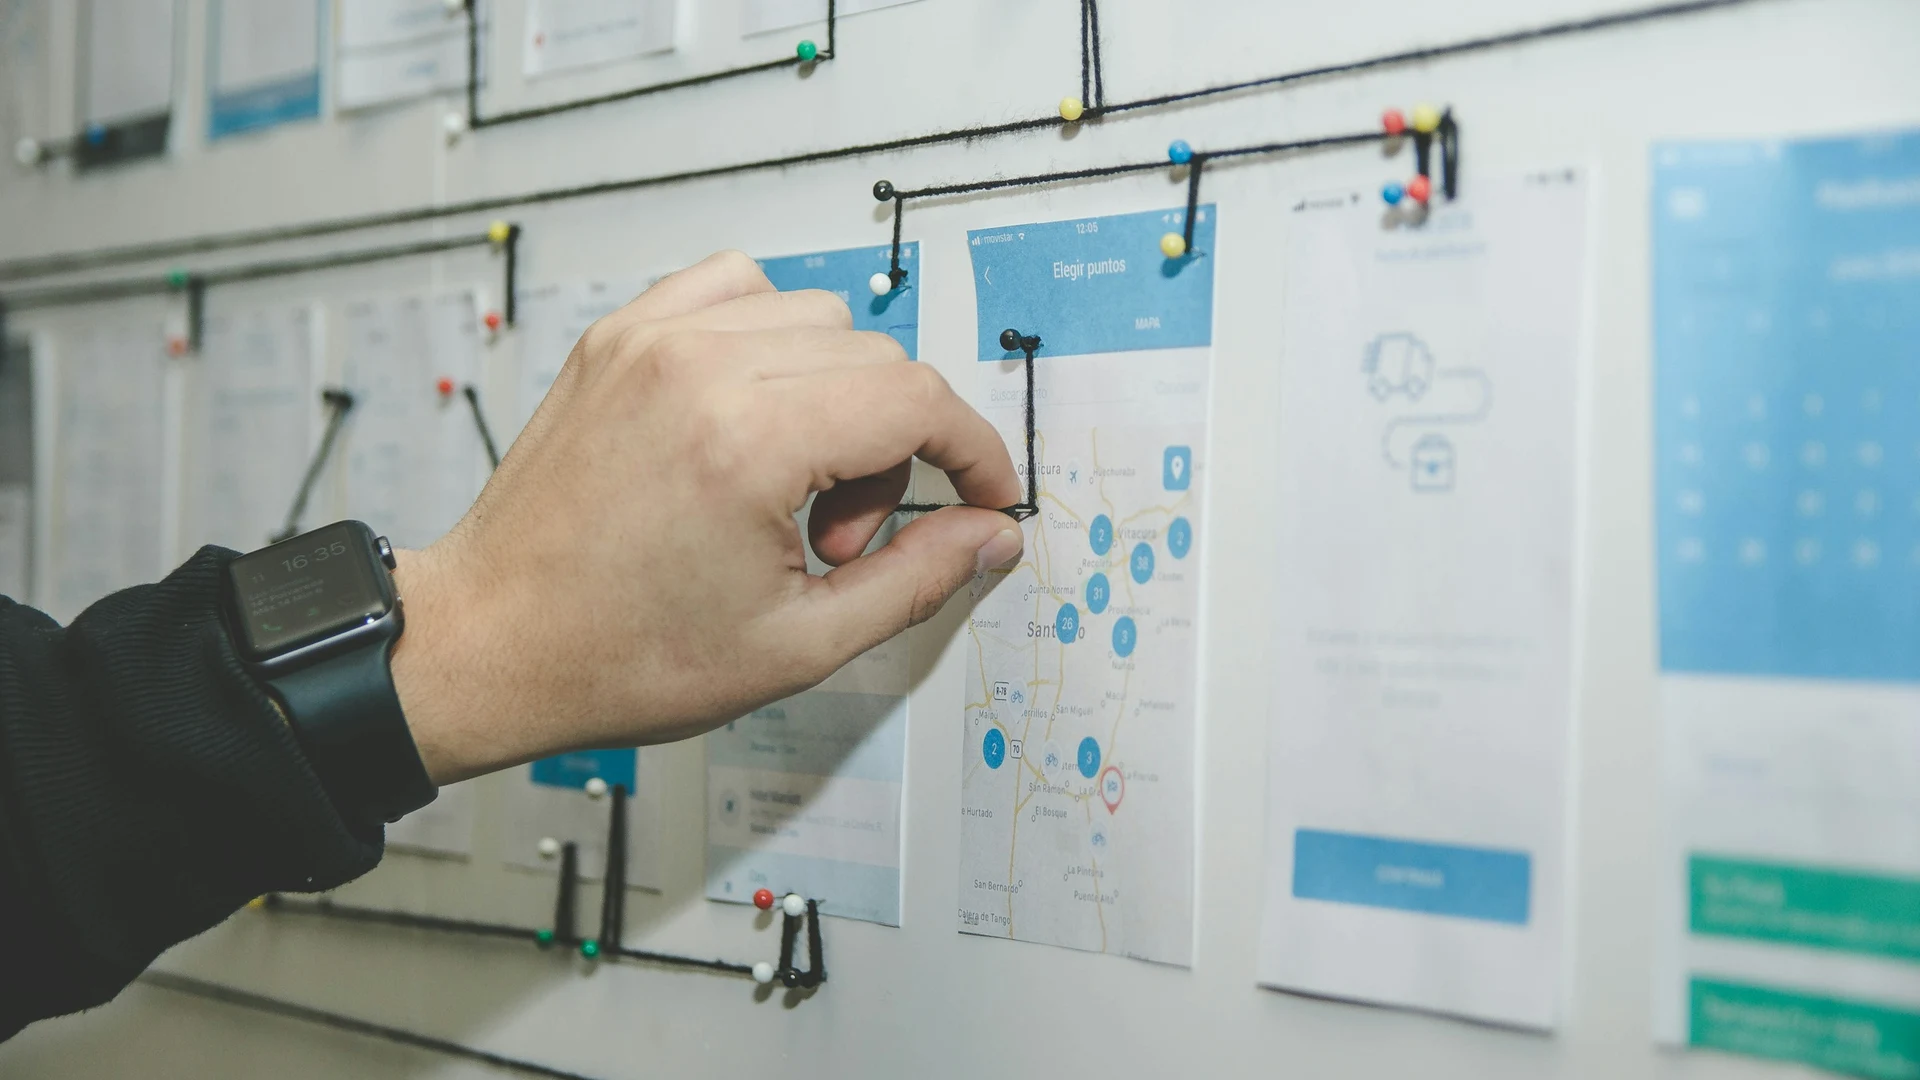
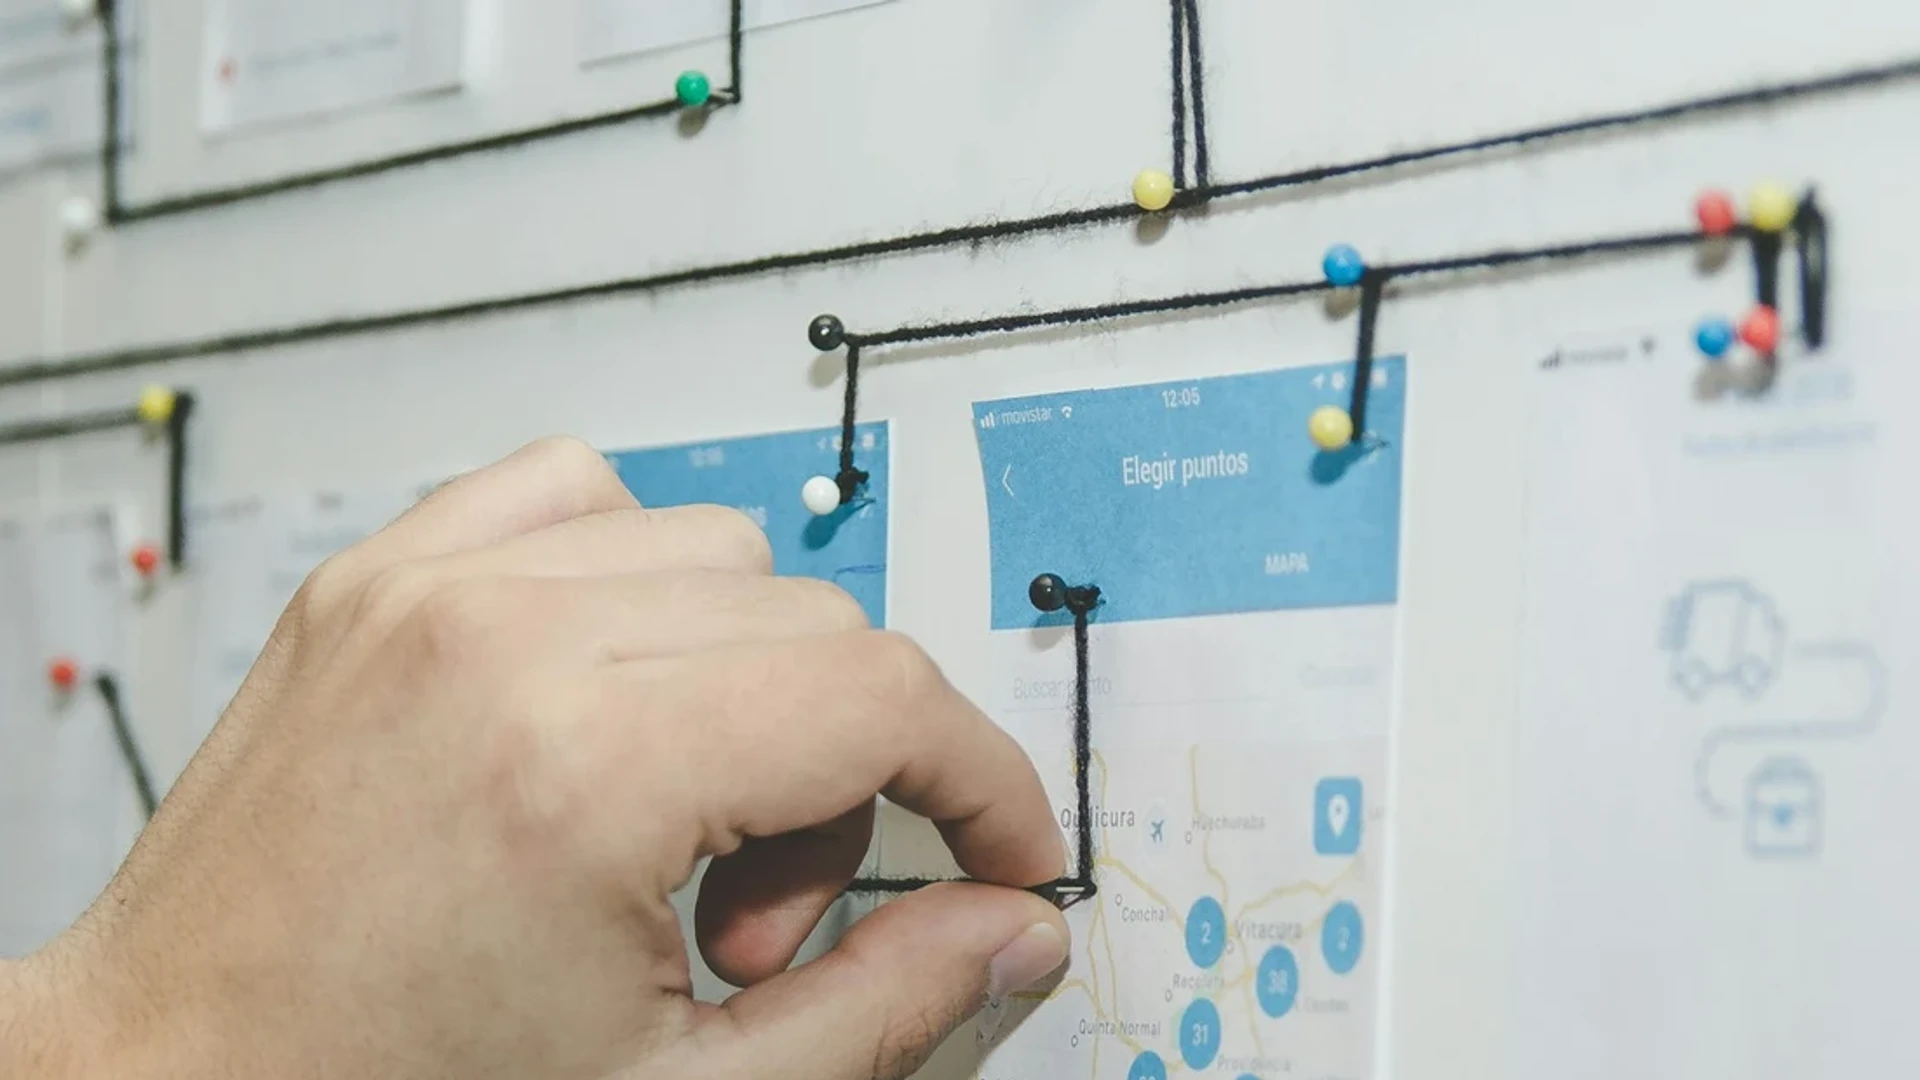
fix(process): align card heights uniformly on small screens and re-crop step 1 image composition

diff --git a/src/components/ProcessSection.tsx b/src/components/ProcessSection.tsx
@@ -421,7 +421,7 @@ export const ProcessSection: React.FC<ProcessSectionProps> = ({ stages }) => {
                   {/* Checkpoint Detail Card with enlarged, highly visible image */}
                   <div className="flex-1 min-w-0">
                     <div
-                      className={`group relative w-full flex flex-col justify-between rounded-2xl sm:rounded-3xl border transition-all duration-300 p-5 sm:p-7 lg:p-8 backdrop-blur-md min-h-[460px] sm:min-h-[520px] lg:min-h-[560px] ${
+                      className={`group relative w-full flex flex-col justify-between rounded-2xl sm:rounded-3xl border transition-all duration-300 p-4.5 sm:p-6 lg:p-7 backdrop-blur-md h-[440px] sm:h-[490px] lg:h-[530px] ${
                         isCurrent
                           ? 'bg-white dark:bg-midnight-card border-purple-300 dark:border-electric-purple/50 shadow-lg shadow-purple-600/10'
                           : isReached
@@ -429,9 +429,9 @@ export const ProcessSection: React.FC<ProcessSectionProps> = ({ stages }) => {
                           : 'bg-white/80 dark:bg-midnight-card/60 border-light-border dark:border-midnight-border/60 shadow-sm opacity-90 hover:opacity-100 hover:shadow-md'
                       }`}
                     >
-                      {/* Title & Description */}
-                      <div>
-                        <h3 className="text-base sm:text-xl lg:text-2xl font-bold text-light-text dark:text-white mb-2 group-hover:text-electric-purple dark:group-hover:text-lavender-glow transition-colors">
+                      {/* Title & Description with unified min-height for identical text alignment across all screen sizes */}
+                      <div className="flex-shrink-0 min-h-[112px] sm:min-h-[105px] lg:min-h-[100px] flex flex-col justify-start">
+                        <h3 className="text-base sm:text-xl lg:text-2xl font-bold text-light-text dark:text-white mb-1.5 sm:mb-2 group-hover:text-electric-purple dark:group-hover:text-lavender-glow transition-colors">
                           {step.title}
                         </h3>
 
@@ -442,7 +442,7 @@ export const ProcessSection: React.FC<ProcessSectionProps> = ({ stages }) => {
 
                       {/* Real High-Fidelity 16:9 Showcase Photography with Portrait Depth of Field */}
                       {step.image && (
-                        <div className="relative w-full flex-1 min-h-[260px] sm:min-h-[320px] lg:min-h-[380px] h-64 sm:h-80 lg:h-96 mt-4 rounded-xl sm:rounded-2xl overflow-hidden border border-purple-100/90 dark:border-white/10 shadow-md group-hover/media:shadow-xl transition-shadow duration-300 group/media bg-slate-900/10">
+                        <div className="relative w-full flex-1 min-h-0 mt-3 sm:mt-4 rounded-xl sm:rounded-2xl overflow-hidden border border-purple-100/90 dark:border-white/10 shadow-md group-hover/media:shadow-xl transition-shadow duration-300 group/media bg-slate-900/10">
                           <img
                             src={step.image}
                             alt={step.title}
